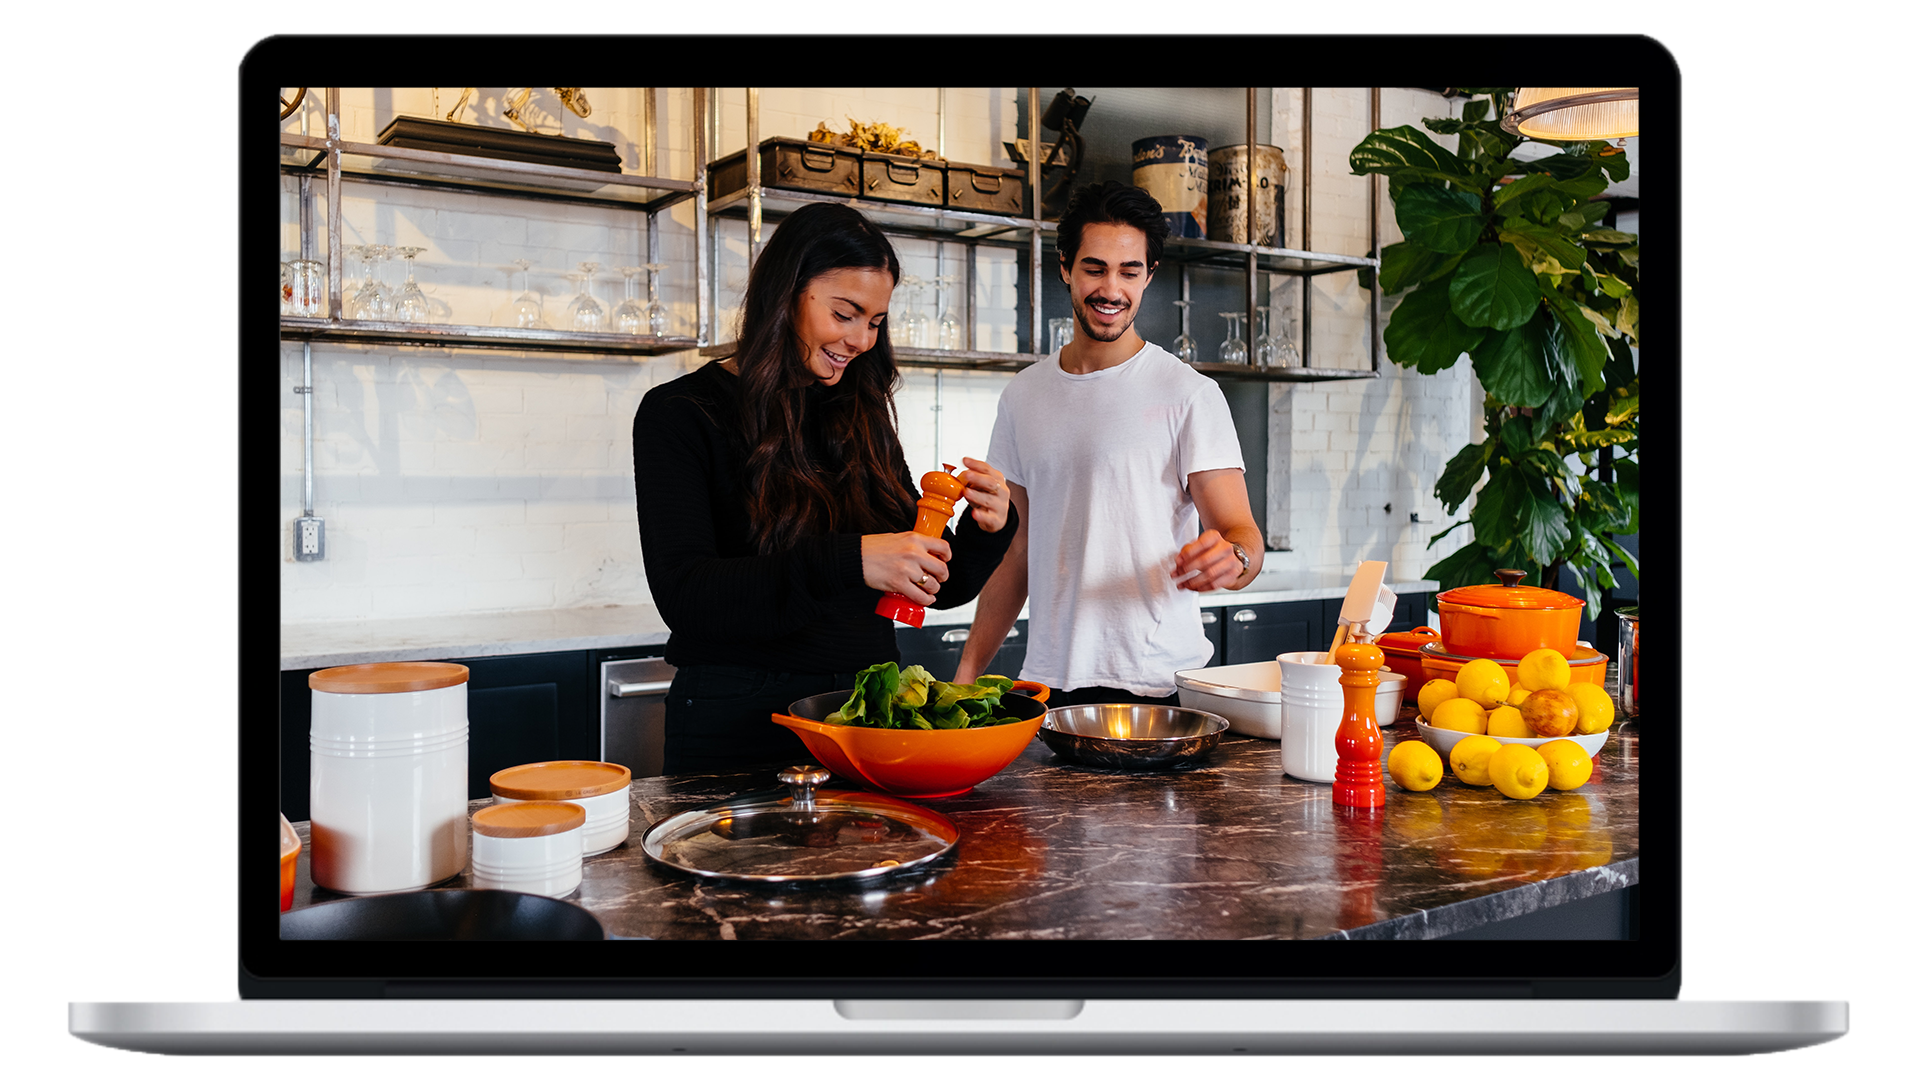
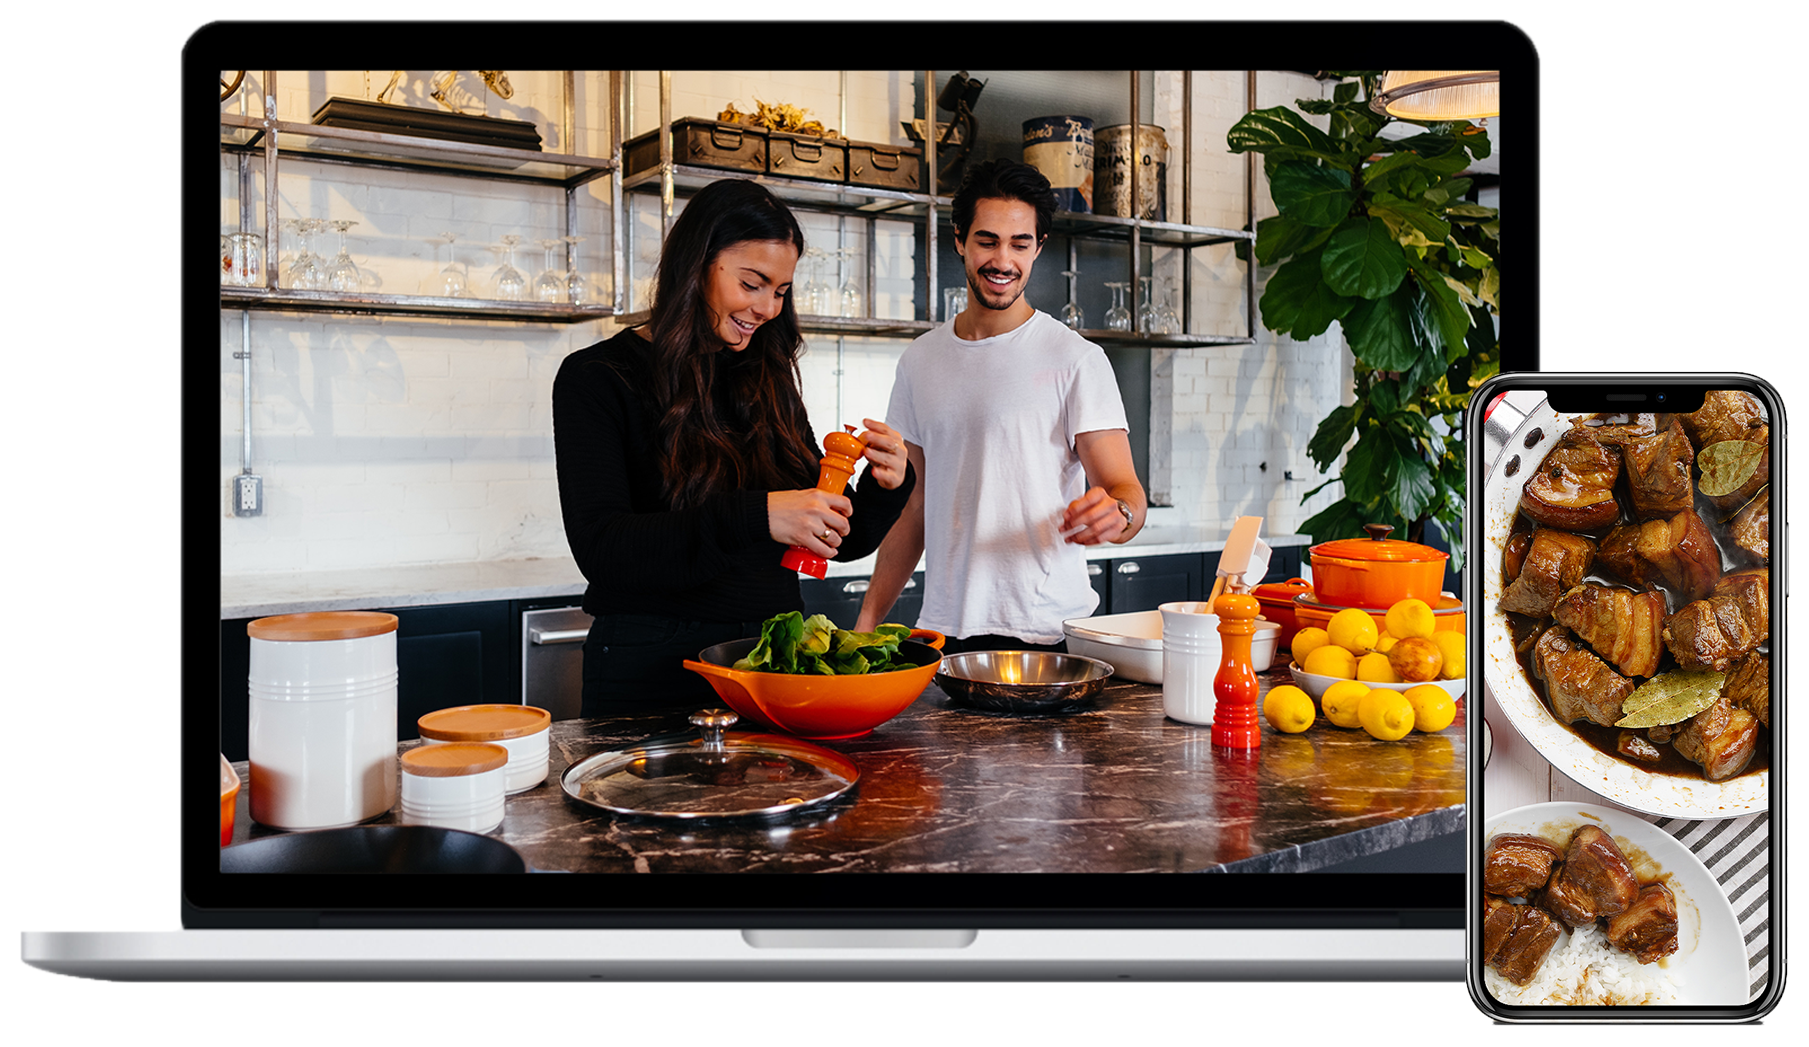
navbar and landing update
f

diff --git a/css files/landingpage.css b/css files/landingpage.css
@@ -4,10 +4,6 @@
     box-sizing: border-box; 
     scroll-behavior: smooth;
 }
-
-.collapsibleNavbar{
-    transition: ease 0.8s;
-}
 #banner{
     position: fixed;
     display: flex;
@@ -21,6 +17,7 @@
     align-items: center;
     margin:auto;
     top: 0;
+    transition: ease 0.8s;
 }
 .navbar-center {
     position: absolute;
@@ -68,7 +65,6 @@
     -webkit-transform: translateX(-50%) translateY(-50%);
     transform: translateX(-50%) translateY(-50%);
   }
-  
   #landingtop {
     position: relative;
     z-index: 2;
@@ -96,6 +92,7 @@
 #brandname{
     position: absolute;
 }
+
 #desc{
     position: relative;
     font-family: 'Raleway';
@@ -107,7 +104,35 @@
     font-family: 'Krub';
     font-size: 6vw;
     color: white;
+    -webkit-animation: focus-in-expand 2s cubic-bezier(0.250, 0.460, 0.450, 0.940) both;
+	        animation: focus-in-expand 2s cubic-bezier(0.250, 0.460, 0.450, 0.940) both;
 }
+@-webkit-keyframes focus-in-expand {
+    0% {
+      letter-spacing: -0.5em;
+      -webkit-filter: blur(12px);
+              filter: blur(12px);
+      opacity: 0;
+    }
+    100% {
+      -webkit-filter: blur(0px);
+              filter: blur(0px);
+      opacity: 1;
+    }
+  }
+  @keyframes focus-in-expand {
+    0% {
+      letter-spacing: -0.5em;
+      -webkit-filter: blur(12px);
+              filter: blur(12px);
+      opacity: 0;
+    }
+    100% {
+      -webkit-filter: blur(0px);
+              filter: blur(0px);
+      opacity: 1;
+    }
+  }
 #searchbtn{
     border: white;
     border-style: solid;
@@ -130,16 +155,108 @@
     padding:15px;
     transition: ease .8s;
 }
+#landingbot{
+    height:100vh;
+
+}
+#botpic{
+    object-fit: contain;
+}
 #laptop{
     position: relative;
-    height: 500px;
-    width: 850px;
-    object-fit: contain;
+    top:20px;
+    width: 100%;
+    height: auto;
+    -webkit-animation: fade-in 1.2s cubic-bezier(0.390, 0.575, 0.565, 1.000) both;
+	        animation: fade-in 1.2s cubic-bezier(0.390, 0.575, 0.565, 1.000) both;
 }
-#phone{
-    height: 350px;
-    width: 300px;
-    bottom: -10px;
-    left: 600px;
-    object-fit: contain;
+@-webkit-keyframes fade-in {
+    0% {
+      opacity: 0;
+    }
+    100% {
+      opacity: 1;
+    }
+  }
+  @keyframes fade-in {
+    0% {
+      opacity: 0;
+    }
+    100% {
+      opacity: 1;
+    }
+  }
+.textbot{
+    position: relative;
+    padding: 1vw;
+    right: 50px;
+    -webkit-animation: text-pop-up-right 2s cubic-bezier(0.250, 0.460, 0.450, 0.940) both;
+	        animation: text-pop-up-right 2s cubic-bezier(0.250, 0.460, 0.450, 0.940) both;
 }
+@-webkit-keyframes text-pop-up-right {
+    0% {
+      -webkit-transform: translateX(0);
+              transform: translateX(0);
+      -webkit-transform-origin: 50% 50%;
+              transform-origin: 50% 50%;
+      text-shadow: none;
+    }
+    100% {
+      -webkit-transform: translateX(50px);
+              transform: translateX(50px);
+      -webkit-transform-origin: 50% 50%;
+              transform-origin: 50% 50%;
+    }
+  }
+  @keyframes text-pop-up-right {
+    0% {
+      -webkit-transform: translateX(0);
+              transform: translateX(0);
+      -webkit-transform-origin: 50% 50%;
+              transform-origin: 50% 50%;
+      text-shadow: none;
+    }
+    100% {
+      -webkit-transform: translateX(50px);
+              transform: translateX(50px);
+      -webkit-transform-origin: 50% 50%;
+              transform-origin: 50% 50%;
+    }
+  }
+#bottext h1{
+    font-family: 'Krub';
+    font-size: 5vw;
+}
+#bottext p{
+    font-family: 'Krub';
+    font-size: 2vw;
+}
+@media (max-width: 992px) {
+    .textbot{
+        position: relative;
+        text-align: center;
+    }
+}
+#Sign{
+    border: black;
+    border-style: solid;
+    border-radius: 100px;
+    text-decoration: none;
+    margin: 2vh;
+    transition: ease .8s;
+}
+#Sign:hover{
+    background-color: rgb(0, 0, 0);;
+}
+#Sign:hover #signup{
+    color:rgb(255, 255, 255);
+    font-size: 25px;
+}
+#signup{
+    font-family: 'Raleway';
+    font-size:20px;
+    color:rgb(0, 0, 0);
+    padding:15px;
+    transition: ease .8s;
+}
+

diff --git a/index.html b/index.html
@@ -73,31 +73,31 @@
     
     <!--malawak na scroll down ng features-->
 <div class="container-fluid" id="landingbot">
-    <div class="row d-flex justify-content-center">
-        <div class="col-lg-7 col-sm-12">
-            <img id="laptop" class="img-fluid" src="images/laptop feed.png">
-            <img id="phone" class="img-fluid" src="images/phone feed.png">
+    <div class="row" id="buffertop">
+        <div class="col-mid-auto col-sm-3"></div>
+    </div>
+    <div class="row d-flex" >
+        <div class="col-lg-8 col-sm-12 justify-content-center" id="botpic">
+            <div class="images" >
+                <div id="img1">
+                    <img id="laptop" src="images/laptop feed.png">
+                </div>
+            </div>
         </div>
-        <div class="col-lg-5 col-sm-12">
-            <h1>Share your recipes with the Community.</h1>
-            <p>With the Recipe Feed, you can post your own recipes, and view recipes from your community.</p>
+        <div class="col-lg-4 col-sm-12" id="bottext">
+            <div class="textbot">
+                <h1 class="font-weight-bold">Share your recipes with the Community.</h1>
+                <p>With the Recipe Feed, you can post your own recipes, and view recipes from your community.</p>
+            </div>
+            <div class="text-center">
+                <button type="button" class="btn" data-toggle="modal" data-target="#Sign-Up"
+                    id="Sign"><span id="signup">Go to your Feed</span></button>
+                <!--pasabi nalang if babaguhin to :V-->
+            </div>
+            
         </div>
     </div>
 </div>
-
-
-<div class="text-center">
-    <button type="button" class="btn btn-outline-warning" data-toggle="modal" data-target="#Sign-Up"
-        id="Sign">Sign-Up</button>
-    <!--pasabi nalang if babaguhin to :V-->
-</div>
-
-
-
-
-
-
-
     <div class="modal fade" id="Sign-Up">
         <div class="modal-dialog modal-dialog-centered modal-lg">
             <div class="modal-content">
@@ -150,7 +150,18 @@
     mga detalye natin
 </footer>
 </html>
-
+<script>
+    var prevScrollpos = window.pageYOffset;
+    window.onscroll = function() {
+    var currentScrollPos = window.pageYOffset;
+      if (prevScrollpos > currentScrollPos) {
+        document.getElementById("banner").style.top = "0";
+      } else {
+        document.getElementById("banner").style.top = "-110px";
+      }
+      prevScrollpos = currentScrollPos;
+    }
+</script>
 <script>
     $(document).ready(function () {
         $("#Feed").click(function () {
